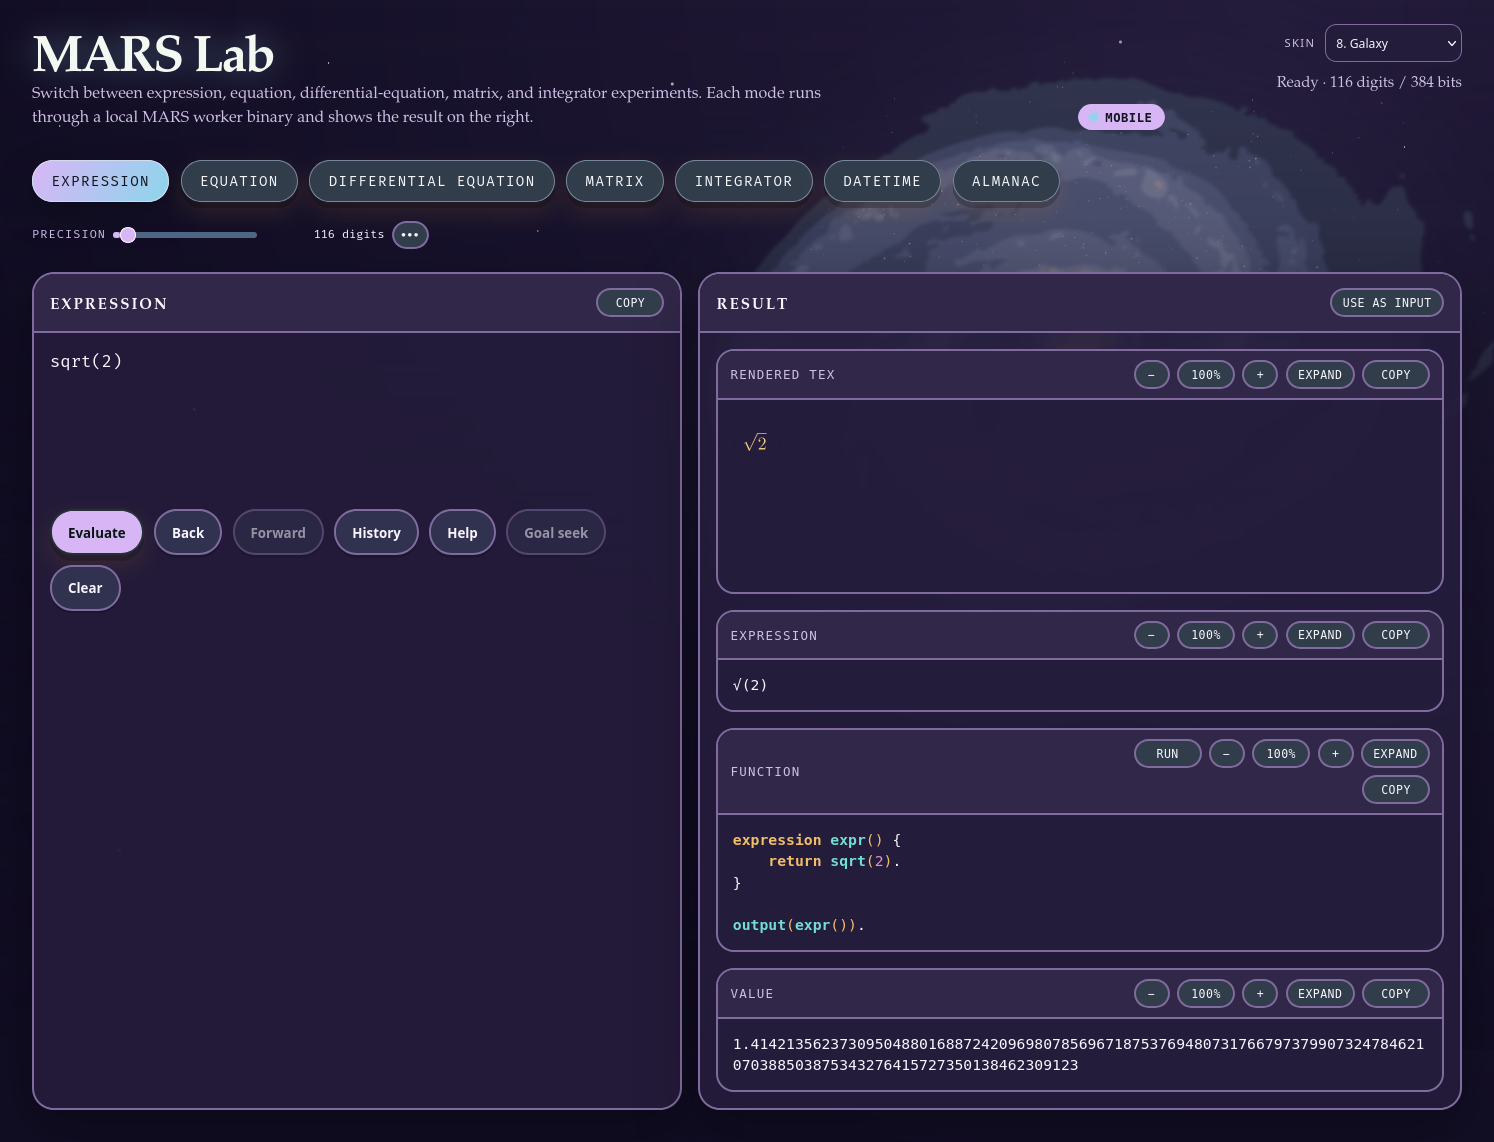
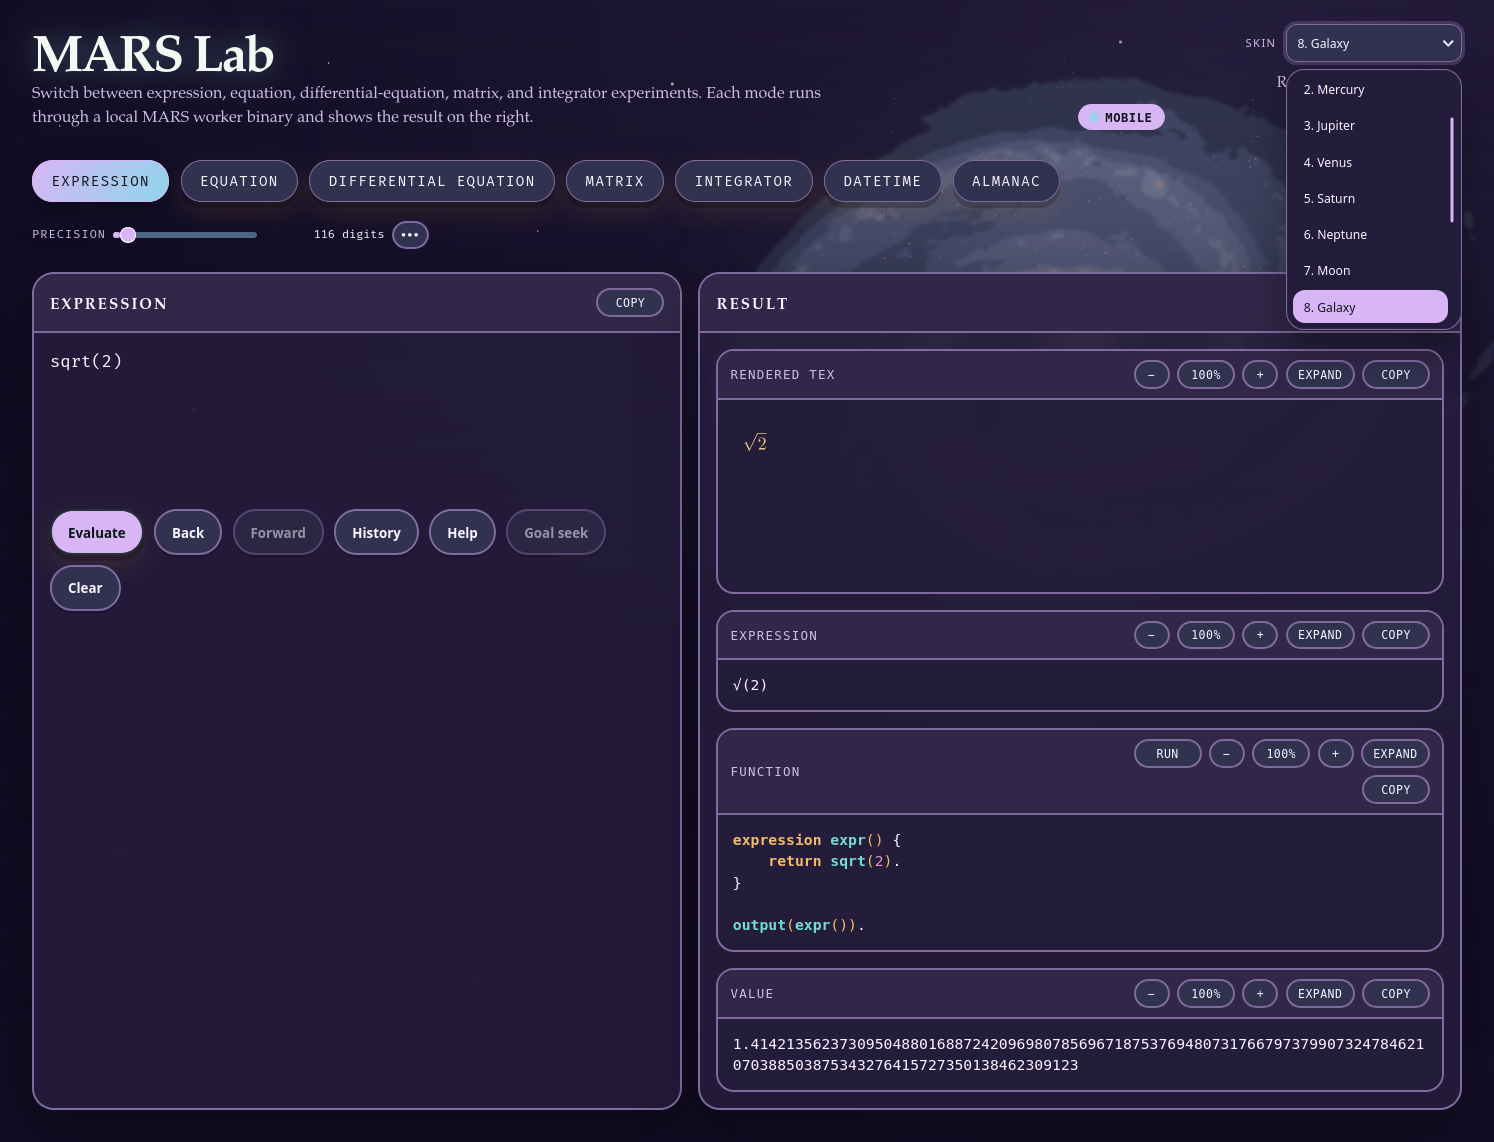
Fix skin menu highlights to follow the selected palette

diff --git a/tools/mars_lab/tests/browser/appearance_checks.ts b/tools/mars_lab/tests/browser/appearance_checks.ts
@@ -25,16 +25,34 @@ window.checkLabAppearance = async function checkLabAppearance(): Promise<void> {
     const rendered = WorksheetContext.rendered.innerHTML;
     const native = labWire.exports();
     const revisions = Array.from({length: 7}, (_, index) => native.lab_workspace_history_revision(index));
+    const shell = picker.closest<HTMLElement>('.select-shell');
+    const menuButton = shell?.querySelector<HTMLButtonElement>('.select-button');
+    const paletteProbe = document.createElement('span');
+    paletteProbe.hidden = true;
+    document.body.append(paletteProbe);
     try {
+        check(shell && menuButton && picker.classList.contains('select-native-source'),
+            'the skin menu uses native-projected page controls rather than a browser-painted popup');
+        check(menuButton!.getAttribute('aria-labelledby') === 'skinSelectLabel', 'the visible menu button has its Skin label');
         check(picker.options.length === names.length, 'all requested skins have one selector entry');
+        WorksheetAppearance.controller.select('13', false);
         for (let index = 0; index < names.length; ++index) {
             check(picker.options[index].value === String(index) &&
                 picker.options[index].textContent === `${index}. ${names[index]}`, 'numbered skin: ' + names[index]);
-            picker.value = String(index);
-            picker.dispatchEvent(new Event('change', {bubbles: true}));
+            menuButton!.click();
+            check(shell!.classList.contains('open'), 'the visible skin menu opens');
+            const option = shell!.querySelector<HTMLButtonElement>(`.select-option[data-value="${index}"]`)!;
+            check(option && option.getBoundingClientRect().height > 0, 'the skin choice is a visible page control');
+            option.click();
+            await new Promise(requestAnimationFrame);
             check(root.dataset.skin === String(index) &&
                 localStorage.getItem(WorksheetAppearance.storageKey) === String(index), 'selection persists: ' + names[index]);
             const style = getComputedStyle(root);
+            paletteProbe.style.color = style.getPropertyValue('--accent');
+            check(!shell!.classList.contains('open') && menuButton!.textContent === picker.selectedOptions[0].textContent &&
+                option.getAttribute('aria-selected') === 'true', 'visible menu selection follows the current skin');
+            check(getComputedStyle(option).backgroundColor === getComputedStyle(paletteProbe).color,
+                'the rendered selected row uses the current skin accent: ' + names[index]);
             check(document.querySelector<HTMLMetaElement>('meta[name="theme-color"]')?.content ===
                 style.getPropertyValue('--paper').trim(), 'browser chrome follows the palette');
             for (const panel of document.querySelectorAll<HTMLElement>('#workspacePanel, #resultWorkspacePanel')) {
@@ -63,6 +81,28 @@ window.checkLabAppearance = async function checkLabAppearance(): Promise<void> {
                 check(image.naturalWidth > 0 && image.naturalHeight > 0, 'artwork decodes: ' + names[index]);
             }
         }
+        menuButton!.dispatchEvent(new KeyboardEvent('keydown', {key: 'ArrowDown', bubbles: true, cancelable: true}));
+        await new Promise(requestAnimationFrame);
+        check(shell!.classList.contains('open') && document.activeElement === shell!.querySelector('.select-option.selected'),
+            'keyboard opening focuses the selected skin');
+        document.activeElement!.dispatchEvent(new KeyboardEvent('keydown', {key: 'ArrowUp', bubbles: true, cancelable: true}));
+        await new Promise(requestAnimationFrame);
+        const keyboardOption = document.activeElement as HTMLElement;
+        check(keyboardOption.dataset.value === '12' && picker.value === '13', 'arrows move focus without committing a skin');
+        check(getComputedStyle(keyboardOption).backgroundColor === getComputedStyle(paletteProbe).color,
+            'the keyboard highlight uses the current palette');
+        keyboardOption.dispatchEvent(new KeyboardEvent('keydown', {key: 'Escape', bubbles: true, cancelable: true}));
+        await new Promise(requestAnimationFrame);
+        check(!shell!.classList.contains('open') && document.activeElement === menuButton, 'Escape closes and restores focus');
+        const beforeExternal = localStorage.getItem(WorksheetAppearance.storageKey);
+        window.dispatchEvent(new StorageEvent('storage', {key: WorksheetAppearance.storageKey, newValue: '8'}));
+        check(picker.value === '8' && menuButton!.textContent === '8. Galaxy' &&
+            shell!.querySelector('.select-option.selected')?.getAttribute('data-value') === '8' &&
+            localStorage.getItem(WorksheetAppearance.storageKey) === beforeExternal,
+            'cross-tab skin changes update the visible menu without echoing storage writes');
+        menuButton!.click();
+        document.body.click();
+        check(!shell!.classList.contains('open'), 'an outside click closes the menu');
         check(editor === WorksheetBindings.editor.currentExpressionText(), 'skin changes preserve the editor');
         check(mode === WorksheetWorkspace.mode.currentMode(), 'skin changes preserve the mode');
         check(rendered === WorksheetContext.rendered.innerHTML, 'skin changes preserve the rendered result');
@@ -78,14 +118,18 @@ window.checkLabAppearance = async function checkLabAppearance(): Promise<void> {
             setItem: (_key, value) => { saved = value; ++writes; }
         });
         try {
+            let projected = '';
             controller.restore();
             controller.mount(select, null, events);
+            controller.connectMenu(() => { projected = select.value; });
             check(controller.current() === '8' && select.value === '8' && writes === 0, 'restore before mounting without rewriting');
+            check(projected === '8', 'connecting a native menu projects the restored choice');
             select.value = '5';
             select.dispatchEvent(new Event('change'));
             check(controller.current() === '5' && saved === '5' && writes === 1, 'selector listener saves once');
             events.dispatchEvent(new StorageEvent('storage', {key: WorksheetAppearance.storageKey, newValue: '10'}));
-            check(controller.current() === '10' && select.value === '10' && writes === 1, 'cross-tab changes do not echo writes');
+            check(controller.current() === '10' && select.value === '10' && projected === '10' && writes === 1,
+                'cross-tab changes project the menu without echoing writes');
             events.dispatchEvent(new StorageEvent('storage', {key: 'unrelated', newValue: '3'}));
             check(controller.current() === '10', 'unrelated storage ignored');
             events.dispatchEvent(new StorageEvent('storage', {key: null, newValue: null}));
@@ -116,6 +160,7 @@ window.checkLabAppearance = async function checkLabAppearance(): Promise<void> {
             denied.dispose();
         }
     } finally {
+        paletteProbe.remove();
         WorksheetAppearance.controller.select(original, false);
         if (stored === null) localStorage.removeItem(WorksheetAppearance.storageKey);
         else localStorage.setItem(WorksheetAppearance.storageKey, stored);

diff --git a/tools/mars_lab/assets/css/skins.css b/tools/mars_lab/assets/css/skins.css
@@ -66,6 +66,7 @@
 }
 
 .skin-picker {
+  z-index: 60;
   display: flex;
   align-items: center;
   justify-content: flex-end;
@@ -80,7 +81,7 @@
   letter-spacing: .12em;
   text-transform: uppercase;
 }
-.skin-picker select {
+.skin-picker :is(select, .select-button) {
   max-width: min(14rem, calc(100vw - 5.5rem));
   min-height: 2.4rem;
   padding: .4rem .65rem;
@@ -91,17 +92,43 @@
   color-scheme: dark;
   font: inherit;
   cursor: pointer;
+  letter-spacing: normal;
+  white-space: nowrap;
+  box-shadow: none;
 }
-.skin-picker select:focus-visible {
+.skin-picker :is(select, .select-button):focus-visible {
   outline: 2px solid var(--accent);
   outline-offset: 3px;
 }
 .skin-picker option { background: var(--panel); color: var(--ink); }
-.skin-picker option:is(:checked, :hover, :focus-visible) {
-  background: var(--accent);
-  color: #10151e;
+.skin-picker .select-shell {
+  width: 11rem;
+  max-width: min(14rem, calc(100vw - 5.5rem));
 }
-
+.skin-picker .select-button { gap: .7rem; }
+.skin-picker .select-button::after {
+  width: .36rem;
+  height: .36rem;
+  border-color: var(--ink);
+}
+.skin-picker .select-menu {
+  left: auto;
+  right: 0;
+  min-width: 100%;
+  width: max-content;
+  max-width: calc(100vw - 1rem);
+  max-height: min(28rem, calc(100dvh - 6rem));
+  overflow-y: auto;
+  overscroll-behavior: contain;
+  background: var(--panel);
+  color: var(--ink);
+  border-color: var(--line);
+}
+.skin-picker .select-option {
+  padding: .55rem .7rem;
+  font: inherit;
+  color: var(--ink);
+}
 /* Shared skin surfaces replace the original green fills without changing charts, flags or photography. */
 :root[data-skin]:not([data-skin="0"]) {
   color-scheme: dark;
@@ -202,6 +229,10 @@
   background: var(--accent);
   color: #10151e;
 }
+:root[data-skin] .skin-picker .select-option:is(.selected, :hover, :focus-visible) {
+  background: var(--accent);
+  color: #10151e;
+}
 
 /* Binding roles share the palette, including their nested input and focus states. */
 :root[data-skin]:not([data-skin="0"]) .variable-value-box {
@@ -291,7 +322,7 @@
 @media (max-width: 600px) {
   .skin-picker { gap: .35rem; }
   .skin-picker label { display: none; }
-  .skin-picker select {
+  .skin-picker :is(select, .select-button, .select-shell) {
     max-width: min(11rem, 44vw);
     min-height: 2.75rem;
   }

diff --git a/tools/mars_lab/typescript/appearance.ts b/tools/mars_lab/typescript/appearance.ts
@@ -15,6 +15,7 @@ namespace WorksheetAppearance {
         private readonly lifetime = new AbortController();
         private picker: HTMLSelectElement | null = null;
         private themeColour: HTMLMetaElement | null = null;
+        private syncMenu: (() => void) | null = null;
 
         /** @brief Retain the appearance root and storage capability without installing listeners. */
         public constructor(
@@ -42,6 +43,7 @@ namespace WorksheetAppearance {
             const identifier = this.identifier(value);
             this.root.dataset.skin = identifier;
             if (this.picker) this.picker.value = identifier;
+            this.syncMenu?.();
             if (this.themeColour) {
                 const colour = getComputedStyle(this.root).getPropertyValue('--paper').trim();
                 if (colour) this.themeColour.content = colour;
@@ -61,11 +63,19 @@ namespace WorksheetAppearance {
             events.addEventListener('storage', this.stored, {signal: this.lifetime.signal});
         }
 
+        /** @brief Project the current choice through the native menu after WASM startup; release on disposal. */
+        public connectMenu(sync: () => void): void {
+            if (!this.picker || this.lifetime.signal.aborted) return;
+            this.syncMenu = sync;
+            sync();
+        }
+
         /** @brief Remove owned subscriptions on permanent page departure; no worksheet state is touched. */
         public dispose(): void {
             this.lifetime.abort();
             this.picker = null;
             this.themeColour = null;
+            this.syncMenu = null;
         }
 
         private identifier(value: unknown): string {

diff --git a/tools/mars_lab/typescript/app.ts b/tools/mars_lab/typescript/app.ts
@@ -689,6 +689,11 @@ class LabApplication {
     /** Browser observers and host callbacks for controls whose policies are native. */
     private initialiseWidgets(): void {
         labDOM.services(labDOM.call('lab_bootstrap_widgets') as NativeServicePlan, {enhance: WorksheetLocations.selects.enhance});
+        const skinPicker = document.getElementById('skinSelect');
+        if (skinPicker instanceof HTMLSelectElement) {
+            const menu = WorksheetLocations.selects.enhance(skinPicker, {searchable: false});
+            if (menu) WorksheetAppearance.controller.connectMenu(menu.sync);
+        }
         for (const mode of ['datetime', 'almanac'] as const) {
             const select = document.getElementById(`${mode}PlaceSearch`) as WorksheetSelect;
             const search = new WorksheetPlaces.SearchController(select, mode);

diff --git a/tools/mars_lab/assets/index.html b/tools/mars_lab/assets/index.html
@@ -36,7 +36,7 @@
       <p class="subtitle" id="subtitle">__LAB_SUBTITLE__</p>
     </div>
     <div class="skin-picker">
-      <label for="skinSelect">Skin</label>
+      <label id="skinSelectLabel" for="skinSelect">Skin</label>
       <select id="skinSelect" aria-label="Appearance skin">
         <option value="0" selected>0. Earth (Default)</option>
         <option value="1">1. Mars</option>

diff --git a/docs/mars-lab.md b/docs/mars-lab.md
@@ -534,7 +534,9 @@ unobstructed; a failed stage does not display successful completion.
 Use **Skin** at the top-right corner of the page header to change the appearance immediately, in any
 mode, including on a phone. **0. Earth (Default)** is the existing green design.
 The other choices use their own palette and static SVG background artwork.
-The skin menu's highlighted options use the current skin's accent colour.
+The skin menu uses MARS's accessible C/WASM selection control after startup, so
+its selected, hovered and keyboard-focused options use the current skin's accent
+colour consistently. Arrow keys navigate it; Enter selects and Escape closes it.
 Variable and constant rows, their badges, input fields and focus highlights use
 the selected palette; the two binding roles retain distinct accent colours.
 Button, plot and globe tooltips also use the selected palette for their text,
